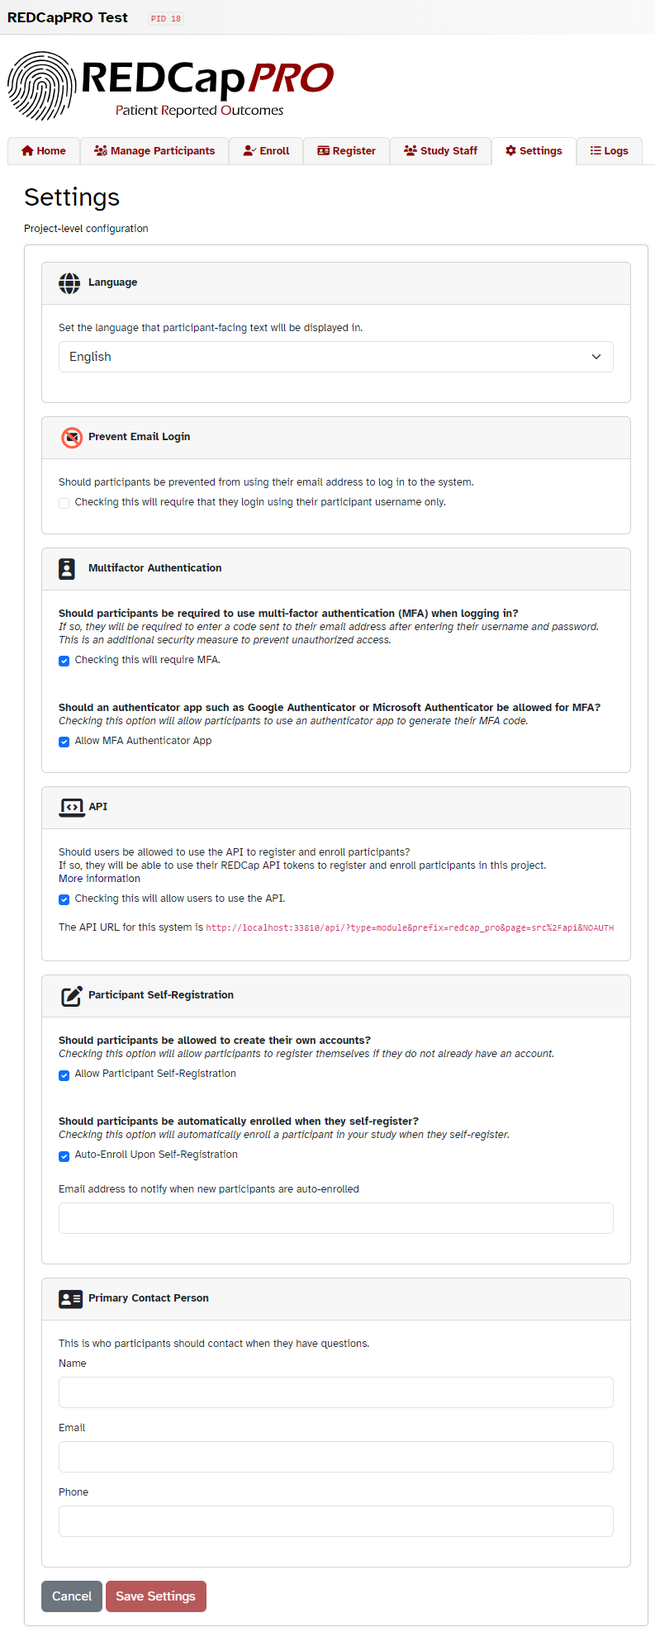
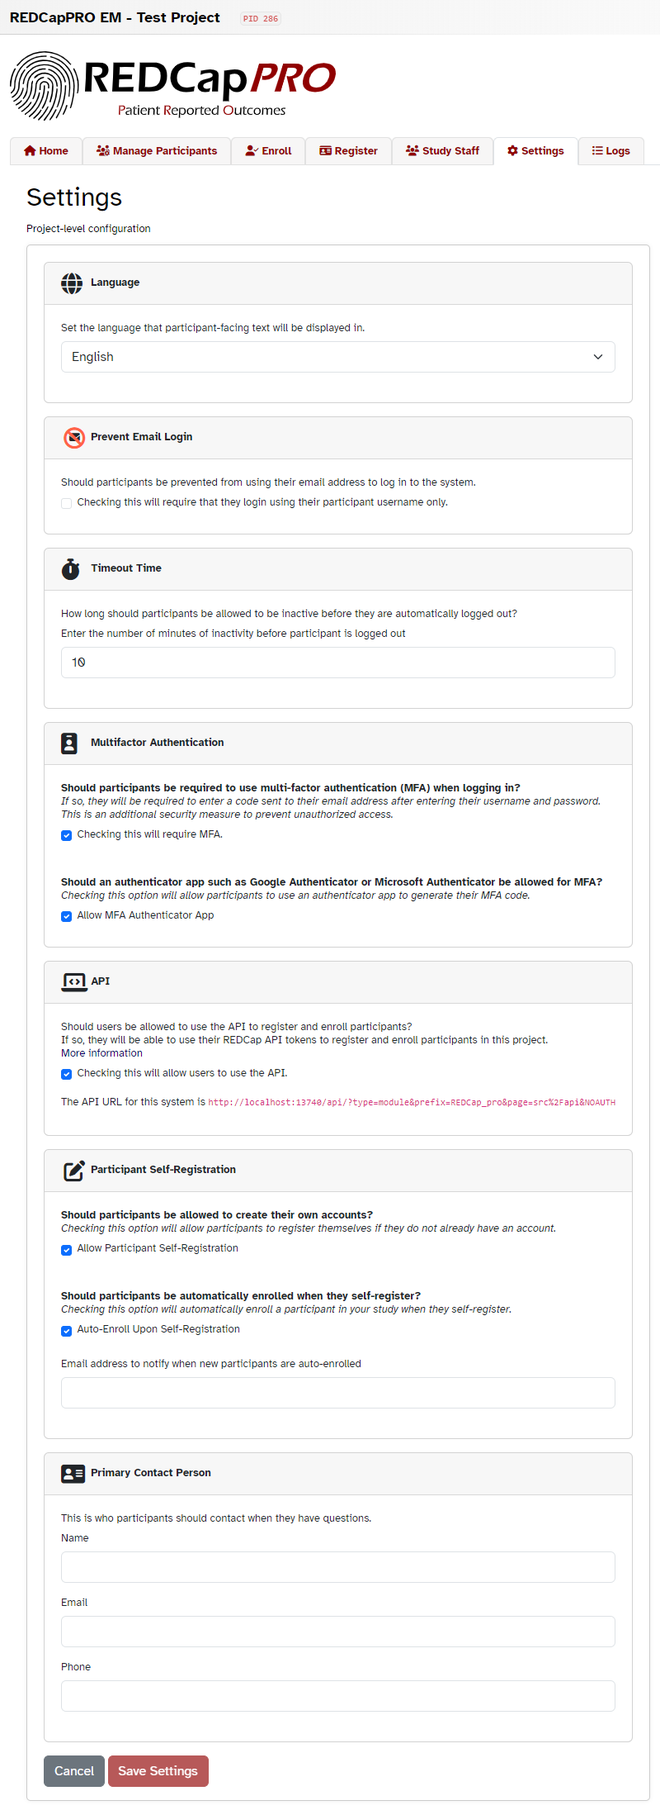
Address #98 - System-Level Timeout Time Setting

diff --git a/src/settings.php b/src/settings.php
@@ -42,6 +42,7 @@ $allowSelfRegistrationSystem = $module->framework->getSystemSetting("allow-self-
 $showMfa                     = $allowMfaSystem && ($isAdmin || !$module->framework->getSystemSetting("mfa-require-admin"));
 $showApi                     = $allowApiSystem && ($isAdmin || !$module->framework->getSystemSetting("api-require-admin"));
 $showSelfRegistration        = $allowSelfRegistrationSystem && ($isAdmin || !$module->framework->getSystemSetting("self-registration-require-admin"));
+$showTimeoutTimeSetting      = $module->framework->getSystemSetting("allow-project-timeout-time-override");
 
 // Update settings if requested
 if ( $_SERVER["REQUEST_METHOD"] == "POST" ) {
@@ -94,6 +95,15 @@ if ( $_SERVER["REQUEST_METHOD"] == "POST" ) {
             $new_settings["auto-enroll-notification-email"]     = $new_email;
         }
 
+        // Validate Timeout Time
+        if ( $showTimeoutTimeSetting ) {
+            $new_settings["timeout-time"] = (int) $post_settings["timeout-time"];
+            if (  $new_settings["timeout-time"] < 1 ) {
+                $timeout_time_err = "Timeout time must be a positive integer";
+                $any_err          = true;
+            }
+        }
+
         if ( !$any_err ) {
 
             $module->setProjectSettings($new_settings);
@@ -131,7 +141,6 @@ $allowAutoEnrollSystem          = (bool) $module->framework->getSystemSetting("a
 $allowSelfRegistration          = $projectSettings->shouldAllowSelfRegistration($project_id);
 $autoEnrollUponSelfRegistration = $projectSettings->shouldEnrollUponRegistration($project_id);
 $autoEnrollNotificationEmail    = $projectSettings->getAutoEnrollNotificationEmail($project_id);
-
 ?>
 
 <div class="settingsContainer wrapper" style="display: none;">
@@ -202,6 +211,33 @@ $autoEnrollNotificationEmail    = $projectSettings->getAutoEnrollNotificationEma
                                 value="<?= $checked === "checked" ? "true" : "false" ?>" hidden>
                             <span class="invalid-feedback">
                                 <?php echo $prevent_email_login_err; ?>
+                            </span>
+                        </div>
+                    </div>
+                </div>
+                <br>
+            <?php }
+            if ( $showTimeoutTimeSetting ) {
+                ?>
+                <div class="card">
+                    <div class="card-header">
+                        <span class="fa-stack">
+                            <i class="fas fa-stopwatch fa-2x"></i>
+                        </span>
+                        <nbsp></nbsp>
+                        <strong>Timeout Time</strong>
+                    </div>
+                    <div class="card-body">
+                        <div class="card-title">
+                            How long should participants be allowed to be inactive before they are automatically logged out?
+                        </div>
+                        <div class="form-group">
+                            <label>Enter the number of minutes of inactivity before participant is logged out</label>
+                            <input type="text" name="timeout-time"
+                                class="form-control <?php echo (!empty($timeout_time_err)) ? 'is-invalid' : ''; ?>"
+                                value="<?php echo \REDCap::escapeHtml($settings["timeout-time"]); ?>">
+                            <span class="invalid-feedback">
+                                <?php echo $timeout_time_err; ?>
                             </span>
                         </div>
                     </div>

diff --git a/src/classes/ProjectSettings.php b/src/classes/ProjectSettings.php
@@ -20,16 +20,32 @@ class ProjectSettings
             // DEFAULT TO 1 MINUTE IF NOT SET
             $result = 1;
         }
+        if ($result >= $this->getTimeoutMinutes()) {
+            // SET TO 30 SECONDS BEFORE TIMEOUT IF CURRENT SETTING IS BAD
+            $result = $this->getTimeoutMinutes() - 0.5;
+        }
         return $result;
     }
 
     public function getTimeoutMinutes()
     {
-        $result = $this->module->framework->getSystemSetting("timeout-time");
-        if ( !floatval($result) ) {
-            // DEFAULT TO 5 MINUTES IF NOT SET
-            $result = 5;
+        $project_id = $this->module->getProjectId();
+        $default = 5;
+        if ( $project_id ) {
+            $allowProjectOverride = $this->module->framework->getProjectSetting("allow-project-timeout-time-override", $project_id);
+            if ( $allowProjectOverride ) {
+                $result = (float) $this->module->framework->getProjectSetting("timeout-time", $project_id);
+            }
         }
+        
+        if (!$result) {
+            $result = (float) $this->module->framework->getSystemSetting("timeout-time");
+        }
+
+        if ( !$result || $result < 0 ) {
+            $result = $default;
+        }
+
         return $result;
     }
 

diff --git a/README.md b/README.md
@@ -109,26 +109,27 @@ These are settings/configuration options accessible in the normal External Modul
 
 ### System Settings
 
-| Setting                                                                  |   Type   | Description                                                                                                                                                                                                                                            |     Default Value     |
-| :----------------------------------------------------------------------- | :------: | :----------------------------------------------------------------------------------------------------------------------------------------------------------------------------------------------------------------------------------------------------- | :-------------------: |
-| **Language File**                                                        | Dropdown | The language that participant-facing text in the module will appear in. This system setting can be overridden by the corresponding project setting. See the [Translation](#translation) section below for more information.                            |        English        |
-| **Email From Address**                                                   |  Email   | This will be the From email address for all system emails. This can help if emails are being sent to spam or are not delivered.                                                                                                                        | noreply@REDCapPRO.com |
-| **Prevent Email Login**                                                  | Checkbox | Should participants be prevented from using their email address to log in to the system. Checking this will require that they login using their participant username only.<br>*Note: if checked, this overrides the associated project-level setting.* |       Unchecked       |
-| **Warning Time**                                                         |  Number  | Number of minutes to wait before warning participant of inactivity timeout                                                                                                                                                                             |       1 minute        |
-| **Timeout Time**                                                         |  Number  | Number of minutes to wait before logging participant out due to inactivity                                                                                                                                                                             |       5 minutes       |
-| **Password Length**                                                      | Integer  | Minimum length of participant's password in characters                                                                                                                                                                                                 |     8 characters      |
-| **Login Attempts**                                                       | Integer  | Number of consecutive failed login attempts before being locked out                                                                                                                                                                                    |      3 attempts       |
-| **Lockout Duration**                                                     | Integer  | Length of a lockout due to failed login attempts, in seconds                                                                                                                                                                                           |      300 seconds      |
-| **Multi-Factor Authentication**                                          | Checkbox | Require participants to use multi-factor authentication when logging in. This requires participants to enter a code sent to their email address in addition to their password.                                                                         |       Unchecked       |
-| **Multi-Factor Authentication with Authenticator App** | Checkbox | Allow participants to use an authenticator app (like Google Authenticator or Microsoft Authenticator) to generate a security code for multi-factor authentication. If unchecked, participants will only be able to receive a security code via email. |       Unchecked       |
-| **Restrict Multi-Factor Authentication project settings to REDCap administrators** | Checkbox | If checked, only REDCap administrators will be able to access the multi-factor authentication settings in the project. If unchecked, any REDCapPRO manager will be able to access the multi-factor authentication settings. |       Unchecked       |
-| **Allow Self-Registration**                                              | Checkbox | Allow participants to [register themselves](#self-registration) with **REDCapPRO**. If checked, a link will appear on the login page that will take the participant to a registration page.                                                            |       Unchecked       |
-| **Restrict Self-Registration project settings to REDCap administrators** | Checkbox | If checked, only REDCap administrators will be able to access the self-registration settings in the project. If unchecked, any REDCapPRO manager will be able to access the self-registration settings.                                                |       Unchecked       |
-| **Allow Auto-Enroll Upon Self-Registration**                             | Checkbox | Allow participants to enroll themselves in a project when they register. If checked, the participant will be automatically enrolled in the REDCapPRO project when they self-register                                                                   |       Unchecked       |
-| **reCaptcha Site Key**                                                   |   Text   | The site key for the reCaptcha v3 service. This is used to prevent bots from registering. *Note: You **cannot** use the same site key as the one utilized by REDCap on surveys, because that site key is a v2 key.*                                                                         |        (blank)        |
-| **reCaptcha Secret Key**                                                 |   Text   | The secret key for the reCaptcha v3 service. This is used to prevent bots from registering. *Note: You **cannot** use the same secret key as the one utilized by REDCap on surveys, because that secret key is a v2 key.*                                                                     |        (blank)        |
-| **Enable the API**                                                       | Checkbox | Enable the API for this system. This allows you to register and enroll participants using the [API](#api).                                                                                                                                             |       Unchecked       |
-| **Restrict API project settings to REDCap administrators**               | Checkbox | If checked, only REDCap administrators will be able to access the API settings in the project. If unchecked, any REDCapPRO manager will be able to access the API settings.                                                                            |       Unchecked       |
+| Setting                                                                            |   Type   | Description                                                                                                                                                                                                                                            |     Default Value     |
+| :--------------------------------------------------------------------------------- | :------: | :----------------------------------------------------------------------------------------------------------------------------------------------------------------------------------------------------------------------------------------------------- | :-------------------: |
+| **Language File**                                                                  | Dropdown | The language that participant-facing text in the module will appear in. This system setting can be overridden by the corresponding project setting. See the [Translation](#translation) section below for more information.                            |        English        |
+| **Email From Address**                                                             |  Email   | This will be the From email address for all system emails. This can help if emails are being sent to spam or are not delivered.                                                                                                                        | noreply@REDCapPRO.com |
+| **Prevent Email Login**                                                            | Checkbox | Should participants be prevented from using their email address to log in to the system. Checking this will require that they login using their participant username only.<br>*Note: if checked, this overrides the associated project-level setting.* |       Unchecked       |
+| **Warning Time**                                                                   |  Number  | Number of minutes to wait before warning participant of inactivity timeout                                                                                                                                                                             |       1 minute        |
+| **Timeout Time**                                                                   |  Number  | Number of minutes to wait before logging participant out due to inactivity                                                                                                                                                                             |       5 minutes       |
+| **Allow Project-Level Timeout Time Override**                                      | Checkbox | Allow a project-level timeout time to be defined and override system timeout time setting                                                                                                                                                              |       Unchecked       |
+| **Password Length**                                                                | Integer  | Minimum length of participant's password in characters                                                                                                                                                                                                 |     8 characters      |
+| **Login Attempts**                                                                 | Integer  | Number of consecutive failed login attempts before being locked out                                                                                                                                                                                    |      3 attempts       |
+| **Lockout Duration**                                                               | Integer  | Length of a lockout due to failed login attempts, in seconds                                                                                                                                                                                           |      300 seconds      |
+| **Multi-Factor Authentication**                                                    | Checkbox | Require participants to use multi-factor authentication when logging in. This requires participants to enter a code sent to their email address in addition to their password.                                                                         |       Unchecked       |
+| **Multi-Factor Authentication with Authenticator App**                             | Checkbox | Allow participants to use an authenticator app (like Google Authenticator or Microsoft Authenticator) to generate a security code for multi-factor authentication. If unchecked, participants will only be able to receive a security code via email.  |       Unchecked       |
+| **Restrict Multi-Factor Authentication project settings to REDCap administrators** | Checkbox | If checked, only REDCap administrators will be able to access the multi-factor authentication settings in the project. If unchecked, any REDCapPRO manager will be able to access the multi-factor authentication settings.                            |       Unchecked       |
+| **Allow Self-Registration**                                                        | Checkbox | Allow participants to [register themselves](#self-registration) with **REDCapPRO**. If checked, a link will appear on the login page that will take the participant to a registration page.                                                            |       Unchecked       |
+| **Restrict Self-Registration project settings to REDCap administrators**           | Checkbox | If checked, only REDCap administrators will be able to access the self-registration settings in the project. If unchecked, any REDCapPRO manager will be able to access the self-registration settings.                                                |       Unchecked       |
+| **Allow Auto-Enroll Upon Self-Registration**                                       | Checkbox | Allow participants to enroll themselves in a project when they register. If checked, the participant will be automatically enrolled in the REDCapPRO project when they self-register                                                                   |       Unchecked       |
+| **reCaptcha Site Key**                                                             |   Text   | The site key for the reCaptcha v3 service. This is used to prevent bots from registering. *Note: You **cannot** use the same site key as the one utilized by REDCap on surveys, because that site key is a v2 key.*                                    |        (blank)        |
+| **reCaptcha Secret Key**                                                           |   Text   | The secret key for the reCaptcha v3 service. This is used to prevent bots from registering. *Note: You **cannot** use the same secret key as the one utilized by REDCap on surveys, because that secret key is a v2 key.*                              |        (blank)        |
+| **Enable the API**                                                                 | Checkbox | Enable the API for this system. This allows you to register and enroll participants using the [API](#api).                                                                                                                                             |       Unchecked       |
+| **Restrict API project settings to REDCap administrators**                         | Checkbox | If checked, only REDCap administrators will be able to access the API settings in the project. If unchecked, any REDCapPRO manager will be able to access the API settings.                                                                            |       Unchecked       |
 
 ### Project Settings
 
@@ -239,20 +240,23 @@ guide:
 
 This tab contains some project-level configuration options. This tab is only 
 accessible by managers.
-| Setting                                                             |   Type   | Description                                                                                                                                                                                                                                                                | Default Value |
-| :------------------------------------------------------------------ | :------: | :------------------------------------------------------------------------------------------------------------------------------------------------------------------------------------------------------------------------------------------------------------------------- | :-----------: |
-| **Language**                                                        | Dropdown | The language that participant-facing text in the module will appear in. This overrides the default system setting. See the [Translation](#translation) section for more information.                                                                                       |    English    |
-| **Prevent Email Login**                                             | Checkbox | If checked, this prevents participants from using their email address to log in to surveys. Instead, they must use their REDCapPRO username to log in. <br>*If email logins are prevented at the system level, this setting will not appear in the project setttings tab.* |   Unchecked   |
-| **Multifactor Authentication**                                      | Checkbox | Require participants to use multi-factor authentication when logging in. This requires participants to enter a code sent to their email address in addition to their password.                                                                                             |   Unchecked   |
-| **Allow MFA Authenticator App** | Checkbox | Allow participants to use an authenticator app (like Google Authenticator or Microsoft Authenticator) to generate a security code for multi-factor authentication. If unchecked, participants will only be able to receive a security code via email. |   Unchecked   |
-| **API**                                                             | Checkbox | Enable the API for this project. This allows you to register and enroll participants using the [API](#api).                                                                                                                                                                |   Unchecked   |
-| **Allow Self-Registration**                                         | Checkbox | Allow participants to [register themselves](#self-registration) with **REDCapPRO**. If checked, a link will appear on the login page that will take the participant to a registration page.                                                                                |   Unchecked   |
-| **Auto-Enroll Upon Self-Registration**                              | Checkbox | Participants will be automatically enrolled in this project when they self-register.                                                                                                                                                                                       |   Unchecked   |
-| **Email address to notify when new participants are auto-enrolled** |  Email   | If auto-enroll is enabled, this email address will be notified when a participant self-registers and is auto-enrolled.                                                                                                                                                     |    (blank)    |
-| **Study Contact Name**                                              |   Text   | The name of the study staff member that study participants should contact with questions/problems. This will appear in emails sent to the participant                                                                                                                      |      N/A      |
-| **Study Contact Email**                                             |  Email   | Email address that participants should contact.                                                                                                                                                                                                                            |      N/A      |
-| **Study Contact Phone**                                             |  Phone   | Phone number that participants should contact.                                                                                                                                                                                                                             |      N/A      |
+| Setting                                                             |       Type       | Description                                                                                                                                                                                                                                                                |            Default Value             |
+| :------------------------------------------------------------------ | :--------------: | :------------------------------------------------------------------------------------------------------------------------------------------------------------------------------------------------------------------------------------------------------------------------- | :----------------------------------: |
+| **Language**                                                        |     Dropdown     | The language that participant-facing text in the module will appear in. This overrides the default system setting. See the [Translation](#translation) section for more information.                                                                                       |               English                |
+| **Prevent Email Login**                                             |     Checkbox     | If checked, this prevents participants from using their email address to log in to surveys. Instead, they must use their REDCapPRO username to log in. <br>*If email logins are prevented at the system level, this setting will not appear in the project setttings tab.* |              Unchecked               |
+| **Timeout Time**                                                    | Positive Integer | Number of minutes to wait before logging participant out due to inactivity. This overrides the default system setting, but it is only shown if enabled at the system level.                                                                                                | (blank) - defaults to system setting |
+| **Multifactor Authentication**                                      |     Checkbox     | Require participants to use multi-factor authentication when logging in. This requires participants to enter a code sent to their email address in addition to their password.                                                                                             |              Unchecked               |
+| **Allow MFA Authenticator App**                                     |     Checkbox     | Allow participants to use an authenticator app (like Google Authenticator or Microsoft Authenticator) to generate a security code for multi-factor authentication. If unchecked, participants will only be able to receive a security code via email.                      |              Unchecked               |
+| **API**                                                             |     Checkbox     | Enable the API for this project. This allows you to register and enroll participants using the [API](#api).                                                                                                                                                                |              Unchecked               |
+| **Allow Self-Registration**                                         |     Checkbox     | Allow participants to [register themselves](#self-registration) with **REDCapPRO**. If checked, a link will appear on the login page that will take the participant to a registration page.                                                                                |              Unchecked               |
+| **Auto-Enroll Upon Self-Registration**                              |     Checkbox     | Participants will be automatically enrolled in this project when they self-register.                                                                                                                                                                                       |              Unchecked               |
+| **Email address to notify when new participants are auto-enrolled** |      Email       | If auto-enroll is enabled, this email address will be notified when a participant self-registers and is auto-enrolled.                                                                                                                                                     |               (blank)                |
+| **Study Contact Name**                                              |       Text       | The name of the study staff member that study participants should contact with questions/problems. This will appear in emails sent to the participant                                                                                                                      |                 N/A                  |
+| **Study Contact Email**                                             |      Email       | Email address that participants should contact.                                                                                                                                                                                                                            |                 N/A                  |
+| **Study Contact Phone**                                             |      Phone       | Phone number that participants should contact.                                                                                                                                                                                                                             |                 N/A                  |
 ### Logs
+
+![logs](images/screenshots/logs.png)
 This tab allows Managers to view and export the logs of **REDCapPRO** relevant to this study
 project. It only contains information about actions taken in this project, on
 surveys tied to this project, or certain actions taken regarding participants enrolled in this project. This tab is only accessible by Managers.
@@ -363,7 +367,7 @@ information about **REDCapPRO** participants. These are described below:
 
 | Version | Release Date | Description                                                                                                   |
 | ------- | ------------ | ------------------------------------------------------------------------------------------------------------- |
-| 2.3.0   | 2023-11-28   | Feature release - [Release Notes](https://github.com/AndrewPoppe/REDCap-PRO/releases/tag/2.3.0)      |
+| 2.3.0   | 2023-11-28   | Feature release - [Release Notes](https://github.com/AndrewPoppe/REDCap-PRO/releases/tag/2.3.0)               |
 | 2.2.1   | 2023-11-20   | Minor Change and Bug fix - [Release Notes](https://github.com/AndrewPoppe/REDCap-PRO/releases/tag/2.2.1)      |
 | 2.2.0   | 2023-11-19   | Feature release - [Release Notes](https://github.com/AndrewPoppe/REDCap-PRO/releases/tag/2.2.0)               |
 | 2.1.3   | 2023-11-10   | Minor Change to UI Text - [Release Notes](https://github.com/AndrewPoppe/REDCap-PRO/releases/tag/2.1.3)       |
